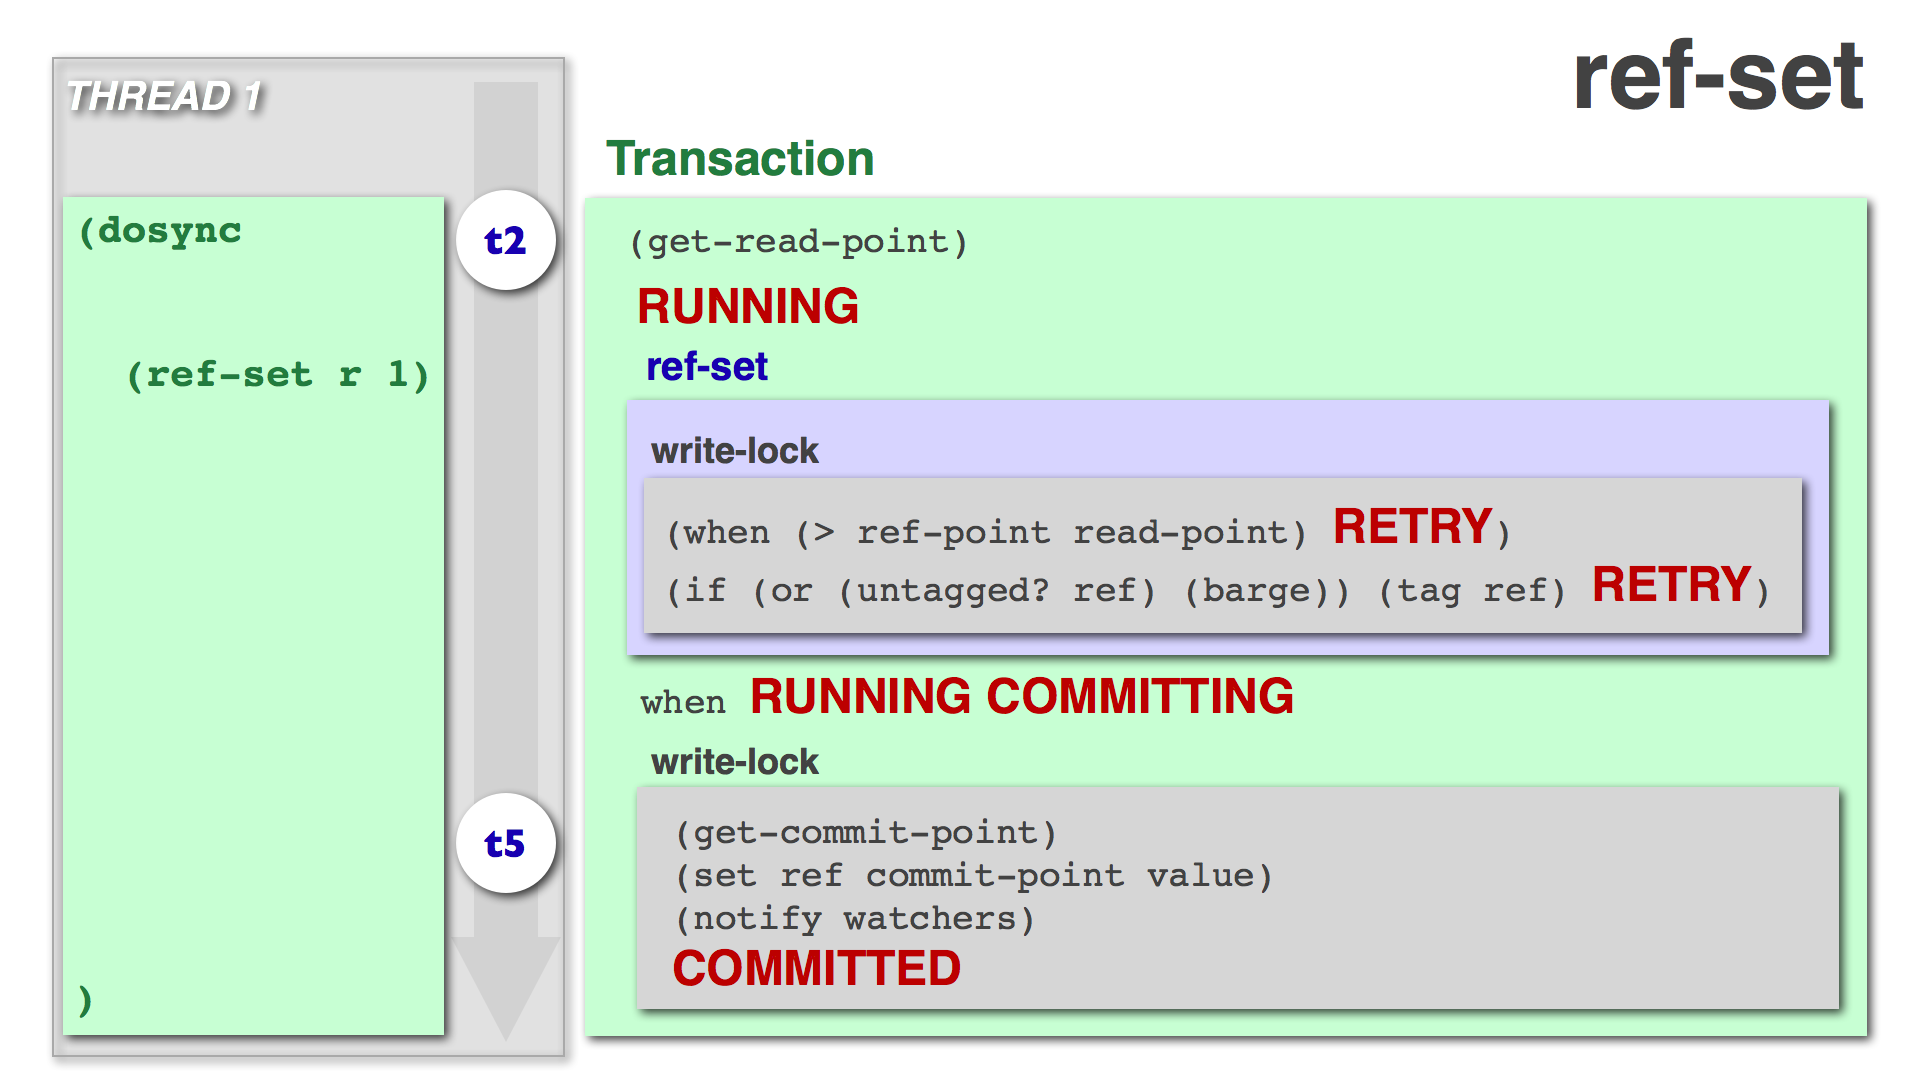
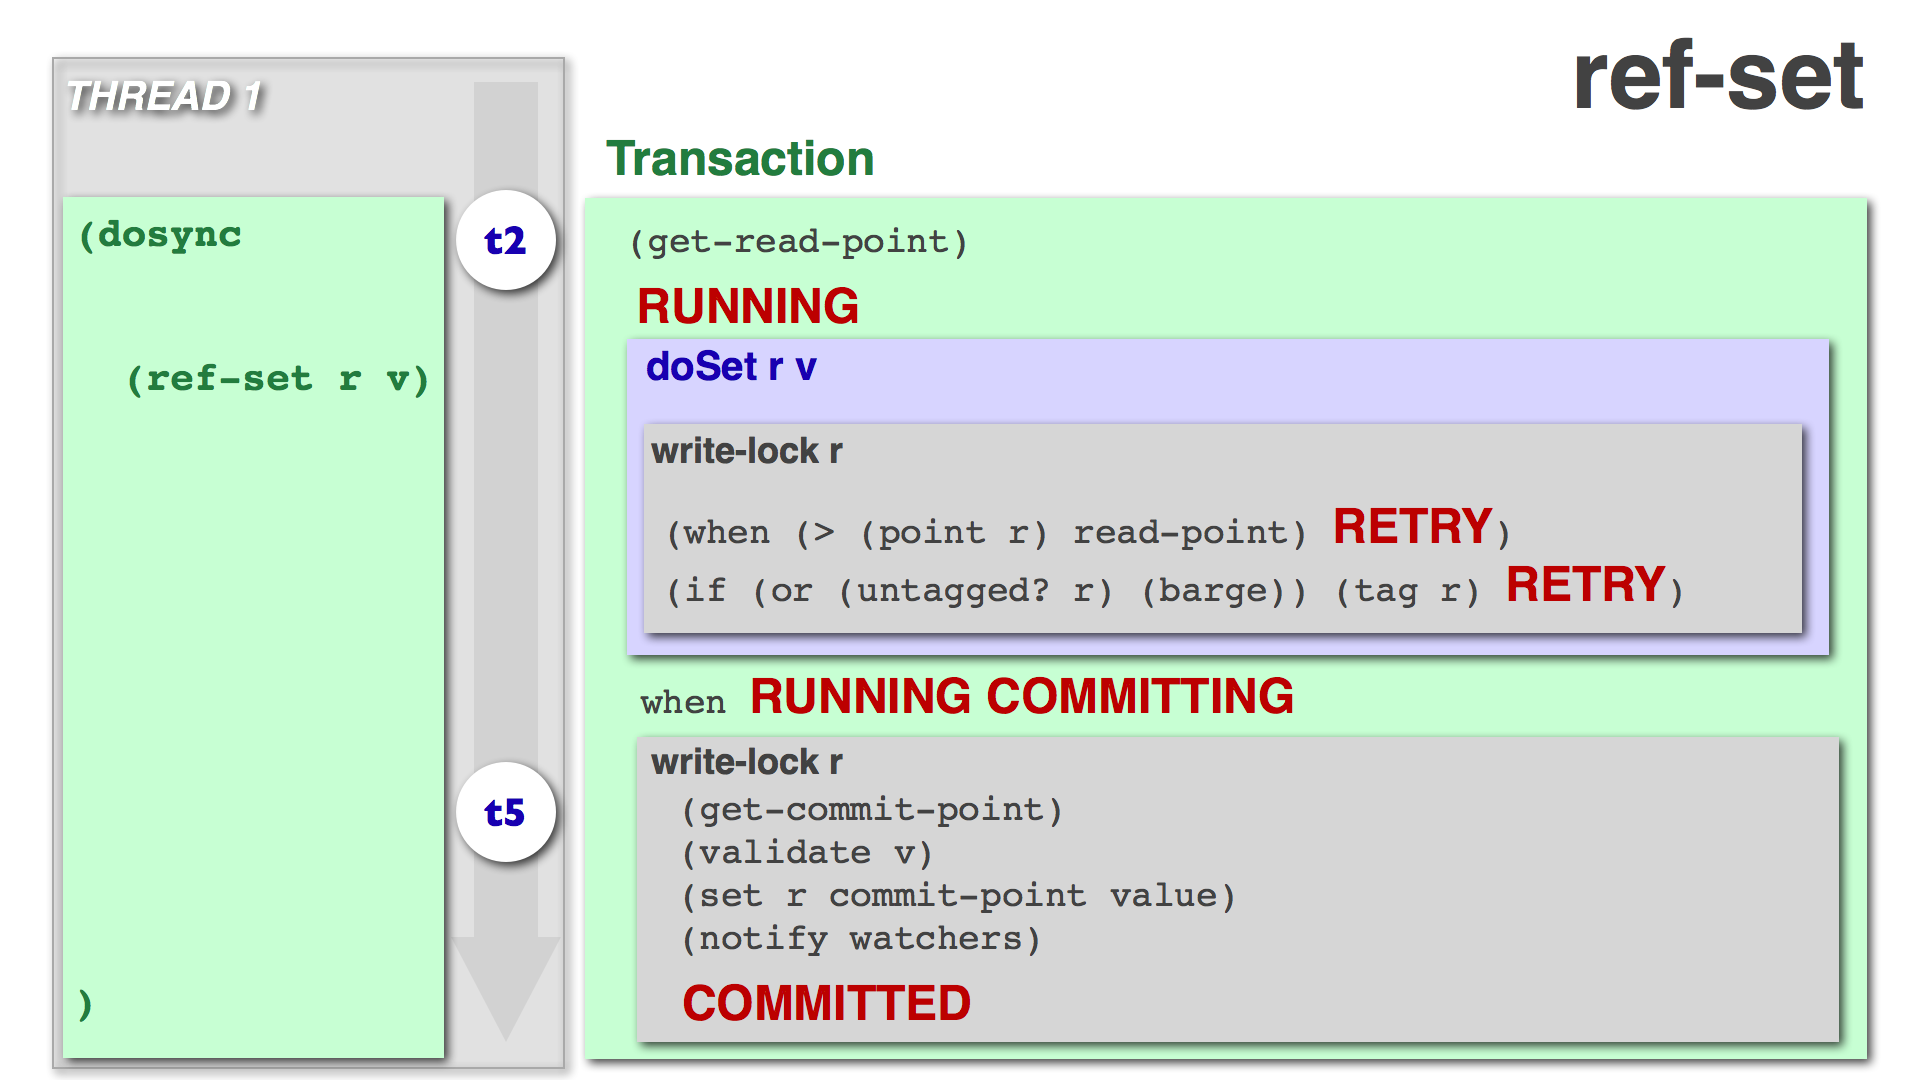
Updated ZK STM recipe added new diagram

diff --git a/README.md b/README.md
@@ -35,32 +35,71 @@ The following figure illustrates Clojure's standard MVCC transaction process.
 
 <img src="https://github.com/liebke/avout/raw/master/docs/images/ref-set.png" />
 
+<img src="https://github.com/liebke/avout/raw/master/docs/images/alter.png" />
+
 <img src="https://github.com/liebke/avout/raw/master/docs/images/avout-stm.png" />
 
 
 ## ZooKeeper Recipe for MVCC Locking Transaction using Instances of ReferenceData
 
-The Avout STM is built on <a href="http://zookeeper.apache.org">Apache ZooKeeper</a> with <a href="https://github.com/liebke/zookeeper-clj">zookeeper-clj</a>. The following is a recipe, in the style of <a href="http://zookeeper.apache.org/doc/trunk/recipes.html">Zookeeper Recipes and Solutions</a>, for building a distributed STM.
+The Avout distributed STM is built on <a href="http://zookeeper.apache.org">Apache ZooKeeper</a> with <a href="https://github.com/liebke/zookeeper-clj">zookeeper-clj</a>. The following is a recipe, in the style of <a href="http://zookeeper.apache.org/doc/trunk/recipes.html">Zookeeper Recipes and Solutions</a>, for building a distributed STM modeled on Clojure's in-memory STM.
 
-Setting values in a transaction:
+### Performing ref-set in a transaction: (dosync (ref-set r v))
 
-1. Start a transaction by creating a persistent, sequential node **/stm/clock/t-** that represents the read-point for the transaction.
-2. Create a new **ZKDistributedReentrantReadWriteLock** (which is based on <a href="http://zookeeper.apache.org/doc/trunk/recipes.html#Shared+Locks">this recipe</a>) for each **ReferenceData** participating in the transaction using **/ref-name/lock** as the lock-node, where ref-name is the value returned from the **ReferenceData** *name* method; then acquire write-locks for each reference that will be altered during the transaction, and read-locks for those that will only be read. If any lock cannot be acquired or any other exception occurs during the remaining steps, end the transaction (and clean up) and then retry it (goto step 1) until success or RETRY_MAX is reached.
-3. Find the most recent committed transaction-value node for each *ReferenceData* by finding the node **/ref-name/tvals/t-xxxxxxxxxx** such that the integer xxxxxxxxxx is less than, or equal to, the current read-point and **/stm/clock/t-xxxxxxxxxx/COMMITTED** exists. 
-4. Make local copies of the current values for each *ReferenceData* at the latest committed point earlier than this transactions read-point by calling the *get* method on each *ReferenceData* passing the point extracted from the last committed transaction-value node.
-5. Apply the respective functions (passed in via the *alter* and *commute* functions) to the current values for each *ReferenceData*, updating the local cache.
-6. Create a persistent, sequential node **stm/clock/t-** that represents the commit-point for this transaction.
-7. Call the *set* method for each *ReferenceData*, passing the new value and the commit-point extracted from the node created in the previous step.
-8. Once all the *ReferenceData* values have been updated, create a persistent node named **/stm/clock/t-xxxxxxxxxx/COMMITTED** to indicate that the transaction has been committed, and all references with tvals at t-xxxxxxxxxx are committed.
-9. release the locks on all refs in the transaction.
+1. Start a transaction by creating a persistent, sequential node **/stm/history/t-** that represents the **start-point** for the transaction, and will act as the transaction's ID (**TXID**), setting it's data field to the value **RUNNING**. Record the current system time as **start-time**.
+
+2. For each reference participating in the transaction, create a new **ZKDistributedReentrantReadWriteLock** (which is based on <a href="http://zookeeper.apache.org/doc/trunk/recipes.html#Shared+Locks">this recipe</a>) using **/ref-name/lock** as the lock-node, where **ref-name** is the value returned from the **ReferenceData** **name** method; then acquire a write-lock for each reference. If any lock cannot be acquired, set the state of the transaction to **RETRY** by setting the data field of **/stm/history/TXID** to the value **RETRY**, clean up, and then go back to step 1 until success or **RETRY_MAX** is reached.
+
+3. Find the most recent committed transaction-value node for each reference by finding the node, **/ref-name/history/TXID-t-xxxxxxxxxx**, with the largest value of xxxxxxxxxx that is less than, or equal to, the current start-point and where the data field for **/stm/history/TXID** equals **COMMITTED**. If there is no point earlier than the start-point, then set the state of the transaction to RETRY by setting the data field of **/stm/history/TXID** to the value **RETRY**, clean up, and then go back to step 1 until success or **RETRY_MAX** is reached.
+  * If the total number of history nodes, **N**, in the step above is greater than **MAX-HISTORY**, submit asynchronous delete requests for the earliest (**N** - **MAX_HISTORY**) nodes.
+
+4. Check if another transaction has tagged the reference by extracting the **TXID** value from the data field of **/ref-name**. If the value is not nil, determine if the other transaction is currently running by extracting its state from the data field of **/stm/history/TXID** and checking whether it's equal to either **RUNNING** or **COMMITTING**.
+  * If the reference is tagged by a running transaction, calculate the time elapsed since the **start-time** recorded in step 1. If the elapsed time is greater than **BARGE-WAIT-TIME**, and the current transaction's **start-point** is earlier than the other transaction's start-point
+    * then **barge** the other transaction by using **compare-and-set-data** (i.e. CAS) to set the data field of **/stm/history/OTHER-TXID** to **KILLED** if and only if its current state is **RUNNING**. If the CAS succeeded, tag the reference by setting the the data field of **/ref-name** to **TXID**, then unlock the write-lock on the reference. If the CAS failed, then set the state of the transaction to **RETRY** by setting the data field of **/stm/history/TXID** to the value **RETRY**, clean up, and then go back to step 1 until success or **RETRY_MAX** is reached.
+    * else if the barge could not be attempted, then set the state of the transaction to **RETRY** by setting the data field of **/stm/history/TXID** to the value **RETRY**, clean up, and then go back to step 1 until success or **RETRY_MAX** is reached.
+  
+5. Set the state of the transaction to **COMMITTING** by using **compare-and-set-data** (i.e. CAS) to set the data field of **/stm/history/TXID** to **COMMITTING** if and only if its current state is **RUNNING**.
+
+6. Acquire the distributed write-lock on the reference.
+
+7. Create a persistent, sequential node **/stm/history/t-** that represents the **commit-point** for this transaction.
+
+8. Validate the value.
+
+9. Call the **set** method for each **ReferenceData**, passing the new (validated) value and the **commit-point**.
+
+10. Notify watchers.
+
+11. Set the state of the transaction to **COMMITTED** by setting the data field of **/stm/history/TXID** to **COMMITTED**.
+
+12. release the write-lock on all refs in the transaction.
 
 
-To invoke *deref* on a *ReferenceData* outside of a transaction: 
+### Performing deref inside a transaction: (dosync (deref r)) or (dosync @r)
 
-1. Create a new **ZKDistributedReentrantReadWriteLock** using **/ref-name/lock** as the lock-node, where ref-name is the value returned from the **ReferenceData** *name* method, then acquire a read-lock on the reference.
-2. Find the most recent committed transaction-value node for the *ReferenceData* by finding the node **/ref-name/tvals/t-xxxxxxxxxx** such that the integer xxxxxxxxxx is less than, or equal to, the most recent clock tick, **/stm/clock/t-xxxxxxxxxx**, where **/stm/clock/t-xxxxxxxxxx/COMMITTED** exists.
-3. Invoke the *get* method on the *ReferenceData*
-4. Release the read-lock
+1. Start a transaction by creating a persistent, sequential node **/stm/history/t-** that represents the **start-point** for the transaction, and will act as the transaction's ID (**TXID**), setting it's data field to the value **RUNNING**. Record the current system time as **start-time**.
+
+2. For each reference participating in the transaction, create a new **ZKDistributedReentrantReadWriteLock** (which is based on <a href="http://zookeeper.apache.org/doc/trunk/recipes.html#Shared+Locks">this recipe</a>) using **/ref-name/lock** as the lock-node, where ref-name is the value returned from the **ReferenceData** *name* method; then acquire write-locks for the reference. If any lock cannot be acquired, set the state of the transaction to RETRY by setting the data field of **/stm/history/TXID** to the value **RETRY**, clean up, and then go back to step 1 until success or **RETRY_MAX** is reached.
+
+3. Find the most recent committed transaction-value node for each reference by finding the node, **/ref-name/history/TXID-t-xxxxxxxxxx**, with the largest value of xxxxxxxxxx that is less than, or equal to, the current start-point and where the data field for **/stm/history/TXID** equals **COMMITTED**. If there is no point earlier than the start-point, then set the state of the transaction to **RETRY** by setting the data field of **/stm/history/TXID** to the value **RETRY**, clean up, and then go back to step 1 until success or **RETRY_MAX** is reached.
+  * If the total number of history nodes, **N**, in the step above is greater than **MAX-HISTORY**, submit asynchronous delete requests for the earliest (**N** - **MAX_HISTORY**) nodes.
+
+4. Set the state of the transaction to COMMITTING by using **compare-and-set-data** (i.e. CAS) to set the data field of **/stm/history/TXID** to **COMMITTING** if and only if its current state is **RUNNING**.
+
+5. Set the state of the transaction to COMMITTED by setting the data field of **/stm/history/TXID** to **COMMITTED**.
+
+6. Release read-lock on references.
+
+
+### Performing deref outside a transaction: (deref r) or @r
+
+1. Create a new **ZKDistributedReentrantReadWriteLock** using **/ref-name/lock** as the lock-node, where ref-name is the value returned from the **ReferenceData** **name** method, then acquire a read-lock on the reference.
+
+3. Find the most recent committed transaction-value point for each reference by finding the node, **/ref-name/history/TXID-t-xxxxxxxxxx**, with the largest value of xxxxxxxxxx where the data field for **/stm/history/TXID** equals **COMMITTED**. If there is no committed value, throw an exception.
+
+4. Invoke the *get* method on the *ReferenceData*, passing the value **t-xxxxxxxx** found in the previous step.
+
+5. Release the read-lock on all references.
 
 
 ## ZKRef
